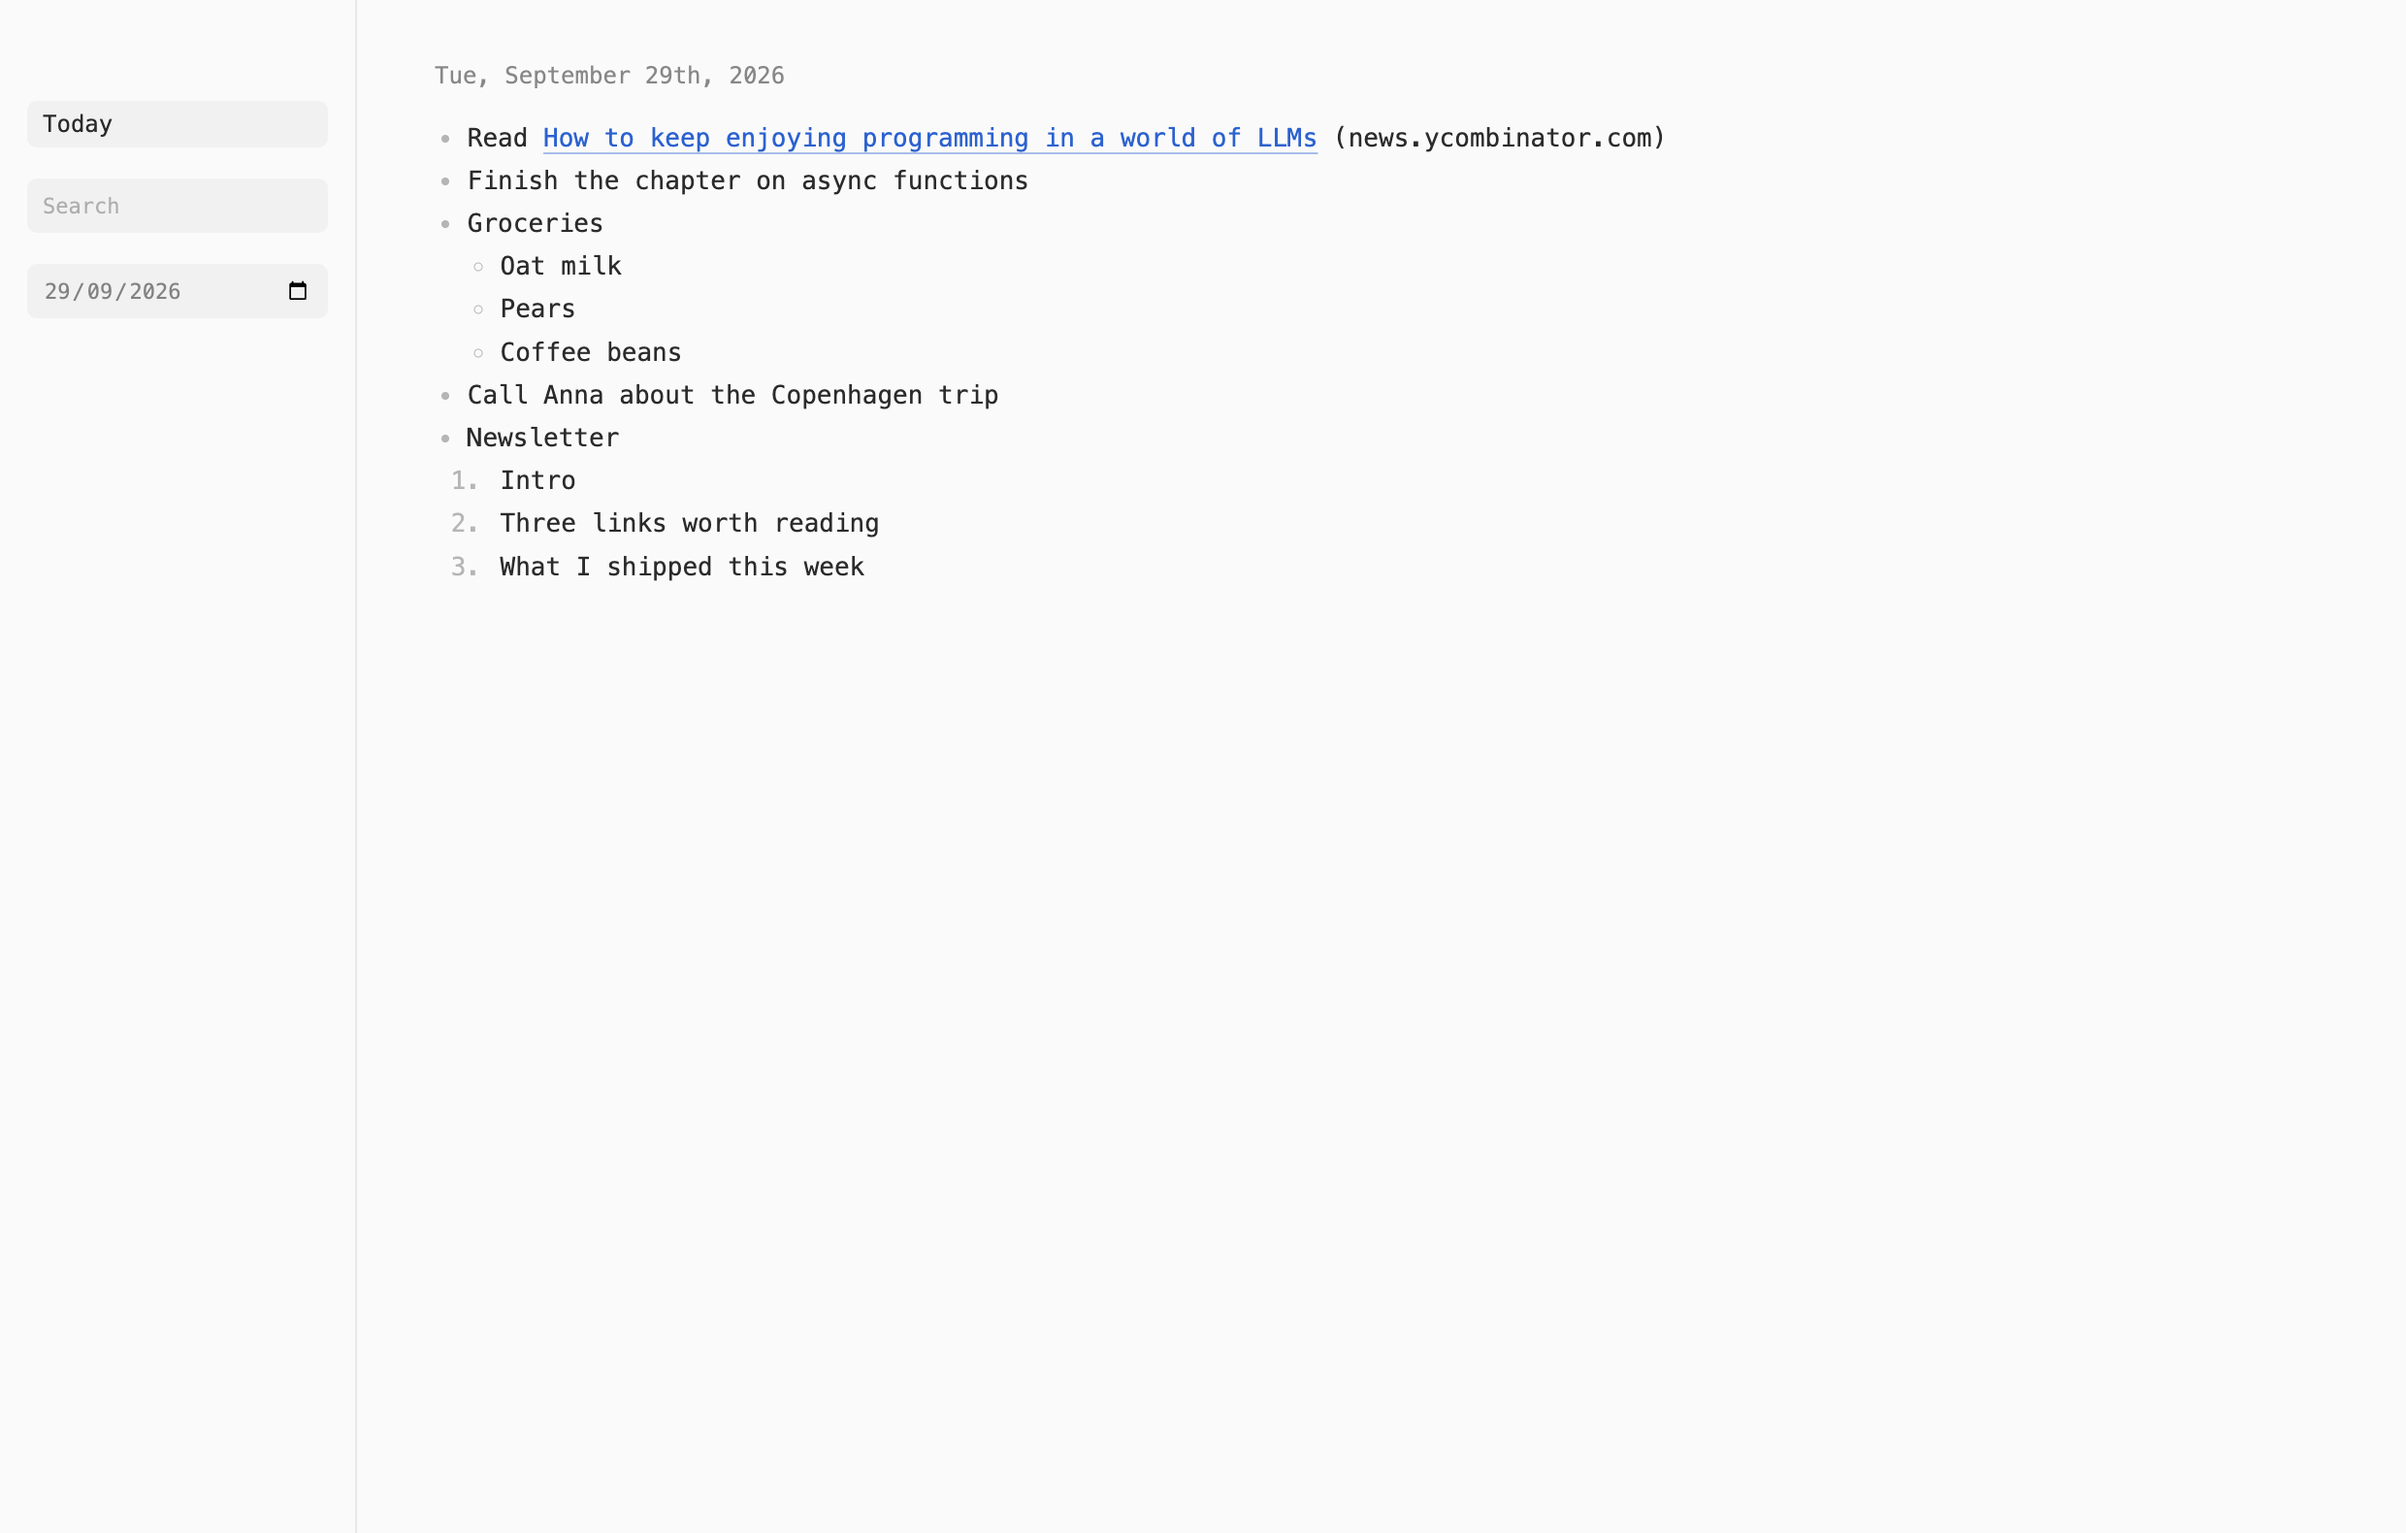
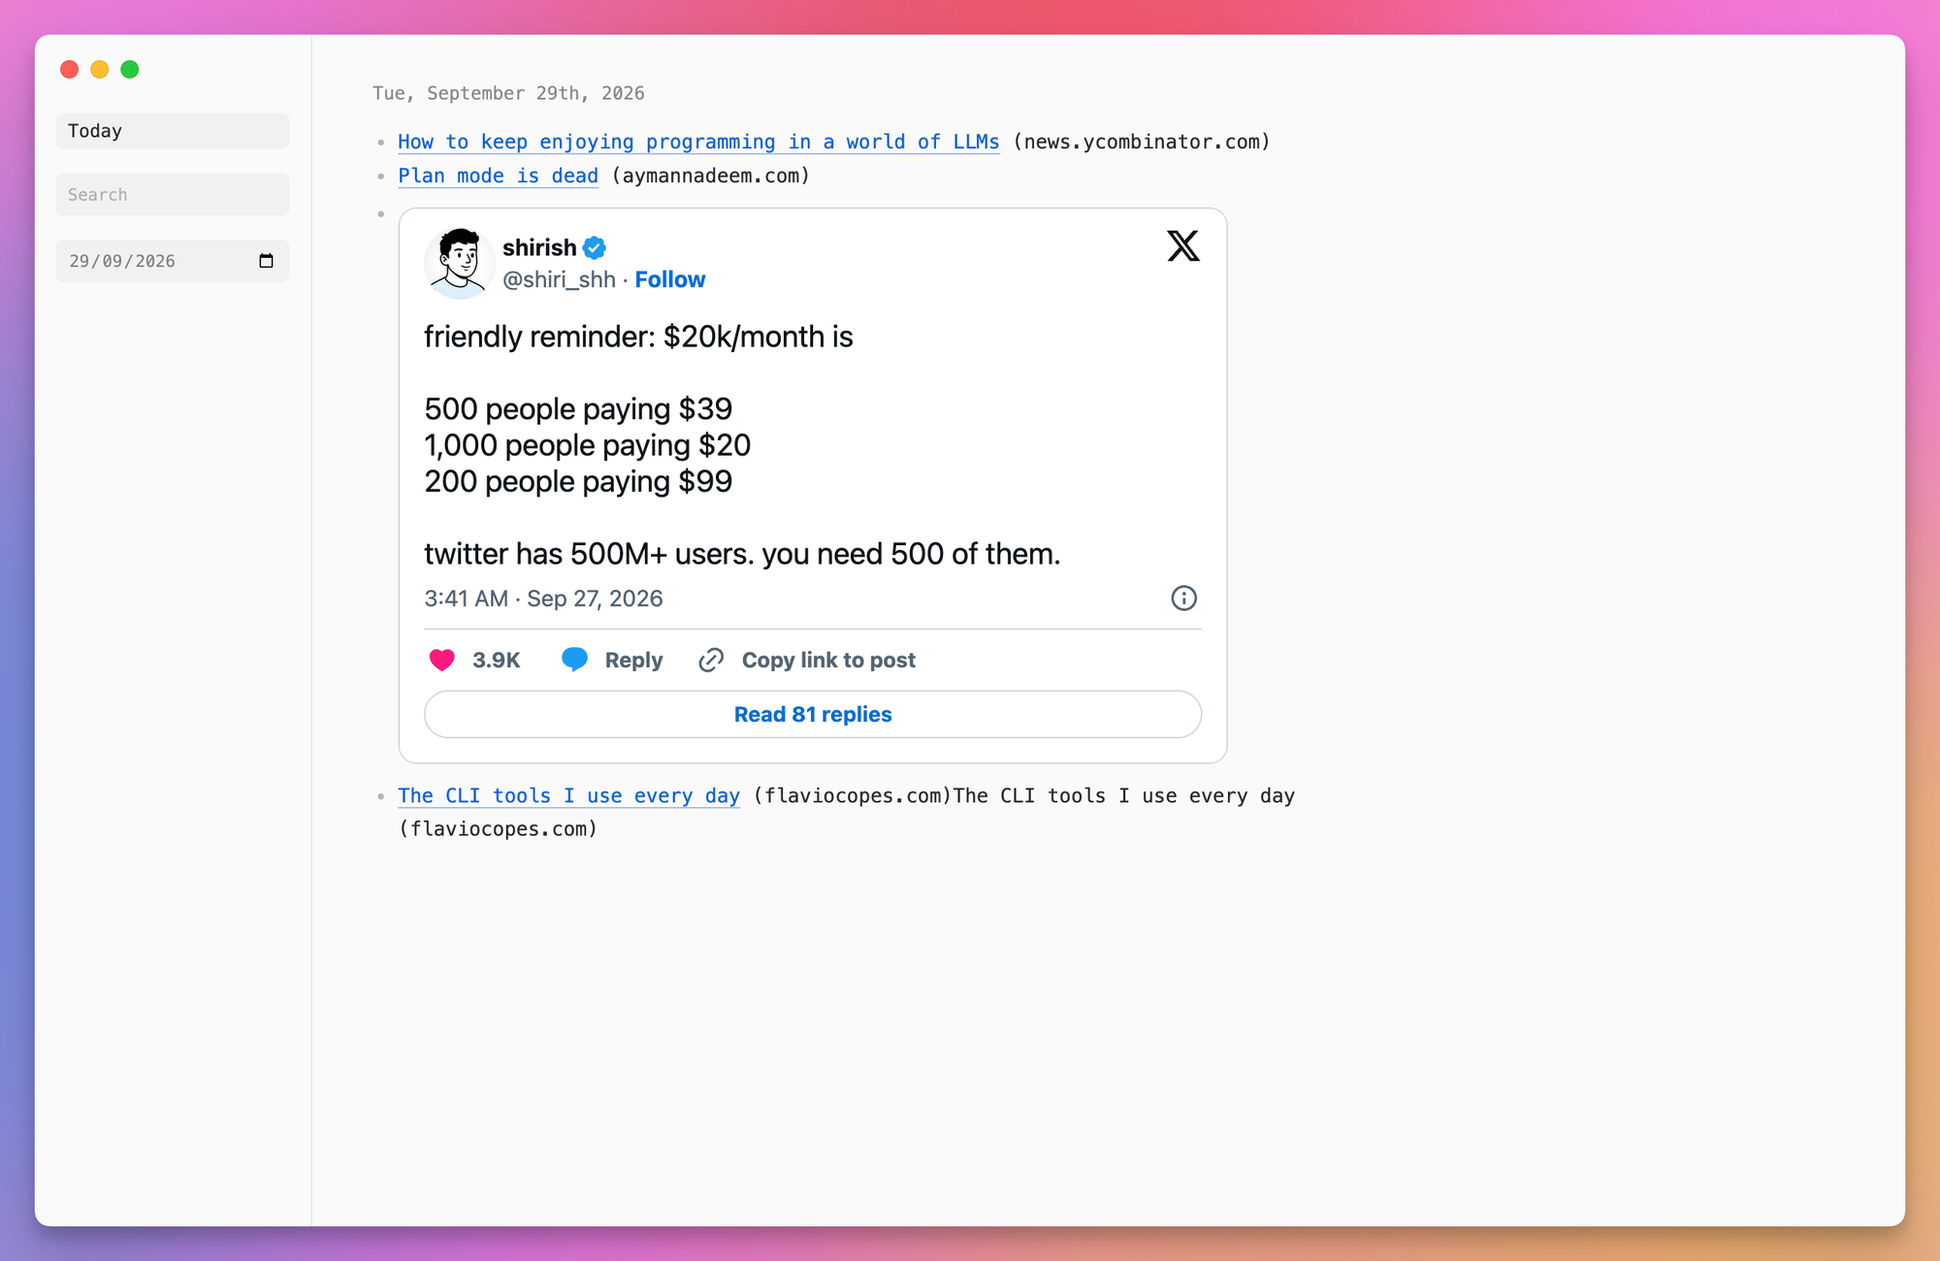
Use the new app screenshot and link the announcement post

diff --git a/README.md b/README.md
@@ -7,6 +7,8 @@ NoteRepo opens on today, which fills the whole window. Scroll up to see earlier 
 
 There are no accounts, AI tools, or calendar integrations. Your notes live in a SQLite file on your Mac.
 
+Read the announcement on my blog: [I built NoteRepo, a quiet daily notes app for macOS](https://flaviocopes.com/noterepo/).
+
 [![Watch the 30-second NoteRepo demo](docs/showreel-poster.jpg)](https://github.com/flaviocopes/noterepo/raw/main/docs/showreel.mp4)
 
 ## Download
@@ -31,7 +33,7 @@ The app is ad-hoc signed but not notarized, so macOS blocks it the first time yo
 - A date picker that jumps to the closest day with notes
 - Light and dark appearance following the macOS setting
 
-![NoteRepo showing today's note with a titled link, a nested list, and a numbered list](docs/screenshot.png)
+![NoteRepo showing today's note with titled links and an X post preview](docs/screenshot.png)
 
 ## Keyboard shortcuts
 
